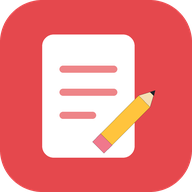
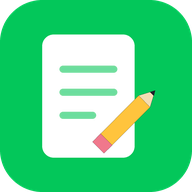
아이콘·앱 색을 네이버 초록으로
Claude-Session: https://claude.ai/code/session_01HuJ8zxhsHzxGk9w9qpjDQB

diff --git a/index.html b/index.html
@@ -3,11 +3,11 @@
 <head>
 <meta charset="utf-8">
 <meta name="viewport" content="width=device-width, initial-scale=1, viewport-fit=cover">
-<meta name="theme-color" content="#e5484d">
+<meta name="theme-color" content="#03c75a">
 <meta name="description" content="오늘의 글감 · 블로그 소재 모음">
 <link rel="manifest" href="manifest.webmanifest">
-<link rel="icon" href="icons/icon-192.png?v=2">
-<link rel="apple-touch-icon" href="icons/apple-touch-icon.png?v=2">
+<link rel="icon" href="icons/icon-192.png?v=3">
+<link rel="apple-touch-icon" href="icons/apple-touch-icon.png?v=3">
 <meta name="apple-mobile-web-app-capable" content="yes">
 <meta name="mobile-web-app-capable" content="yes">
 <meta name="apple-mobile-web-app-title" content="편성표">

diff --git a/sw.js b/sw.js
@@ -1,7 +1,7 @@
 // 앱 설치·오프라인용 서비스 워커
 // - 화면(index.html, 아이콘): 인터넷 먼저, 안 되면 저장본
 // - 데이터(data/*.json): 항상 인터넷에서 최신, 끊기면 마지막 저장본
-const CACHE = "tvguide-v2";
+const CACHE = "tvguide-v3";
 const SHELL = ["./", "index.html", "manifest.webmanifest", "icons/icon-192.png", "icons/icon-512.png"];
 
 self.addEventListener("install", e => {
